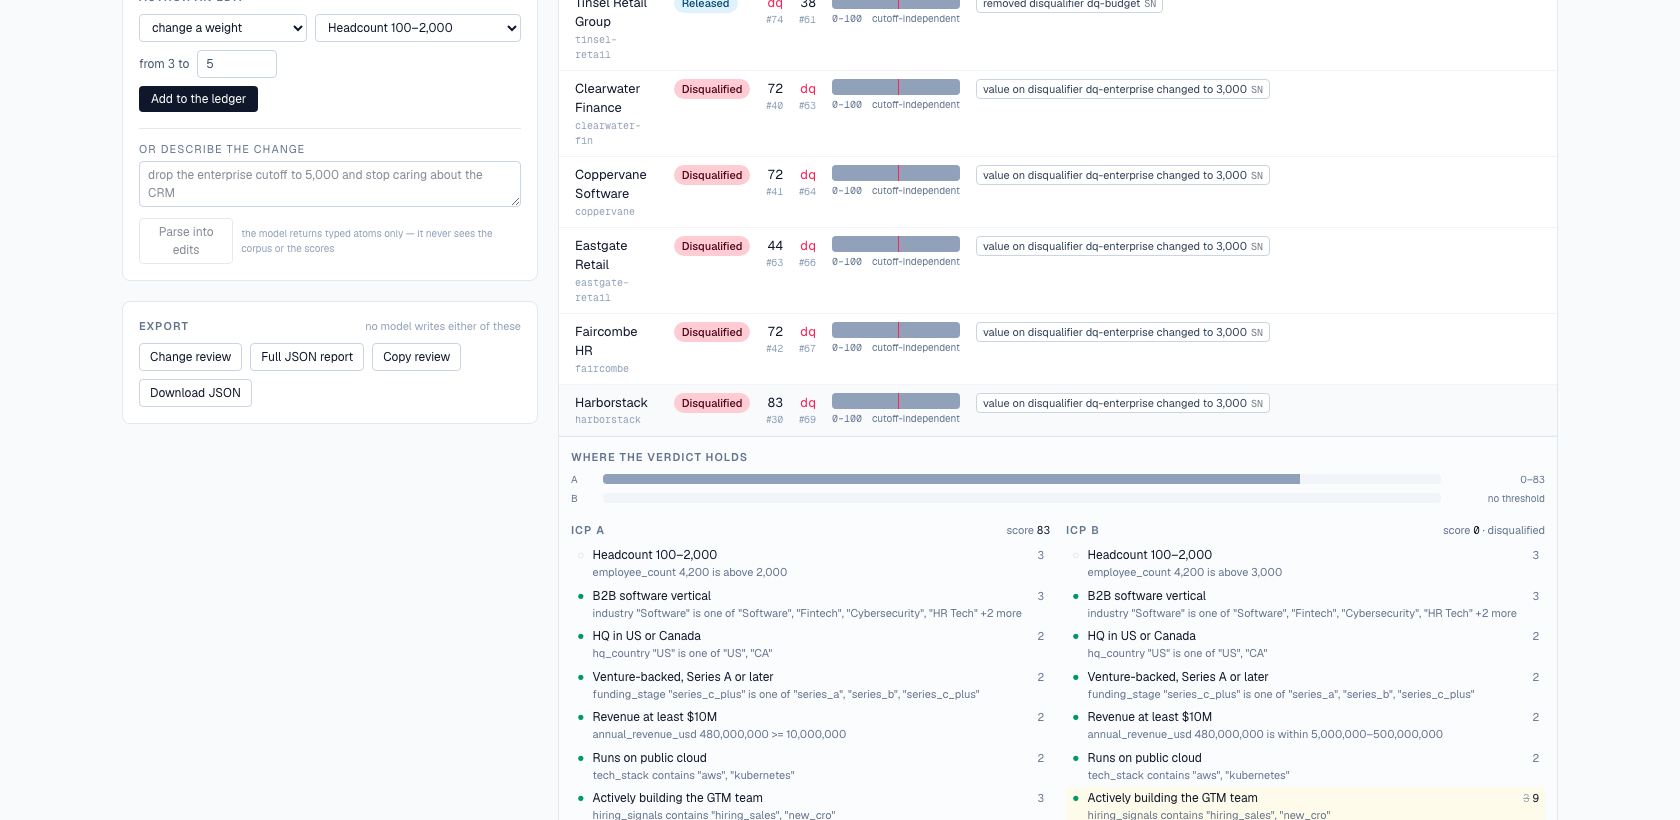
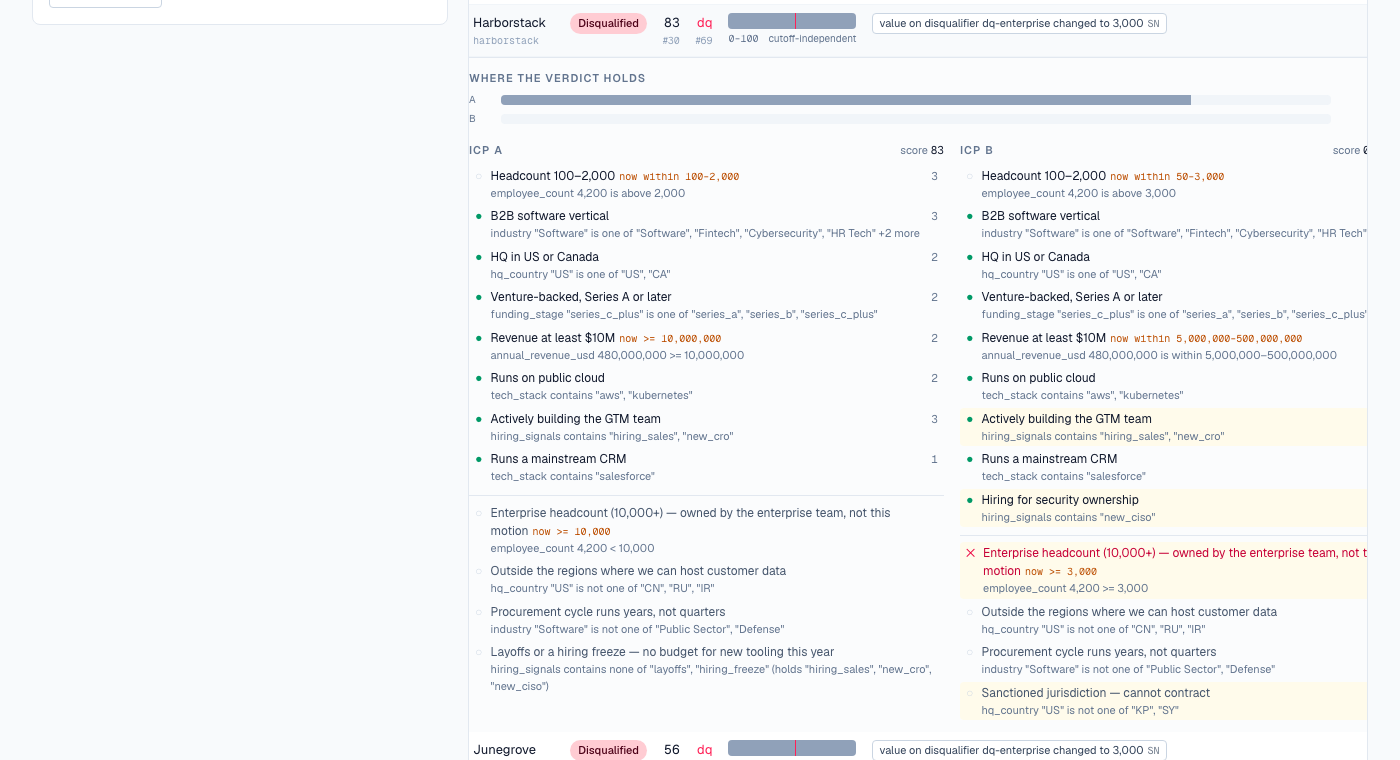
fix: label the old rule "was" rather than "now" on the ICP A column
Both columns printed "now <rule>", which on the A side is a claim about the
present about a rule that is no longer in force. A says "was", B says "now".

diff --git a/app/components/Breakdown.tsx b/app/components/Breakdown.tsx
@@ -64,6 +64,7 @@ export function Breakdown({
           other={null}
           otherDq={null}
           rules={rules.a}
+          rulePrefix="was"
         />
         <CriteriaColumn
           heading="ICP B"
@@ -74,6 +75,7 @@ export function Breakdown({
           other={byId}
           otherDq={dqById}
           rules={rules.b}
+          rulePrefix="now"
         />
       </div>
     </div>
@@ -89,6 +91,7 @@ function CriteriaColumn({
   other,
   otherDq,
   rules,
+  rulePrefix,
 }: {
   heading: string;
   score: number;
@@ -100,6 +103,8 @@ function CriteriaColumn({
   otherDq: Map<string, DisqualifierEvaluation> | null;
   /** Rule phrases for the ids whose rule differs between the two ICPs. */
   rules: Map<string, string>;
+  /** "was" on the ICP A column, "now" on ICP B. */
+  rulePrefix: "was" | "now";
 }) {
   return (
     <div>
@@ -143,7 +148,7 @@ function CriteriaColumn({
                 <span className="text-slate-900 dark:text-slate-100">{criterion.label}</span>
                 {rules.has(criterion.criterionId) ? (
                   <span className="ml-1 font-mono text-[10px] text-amber-700 dark:text-amber-300">
-                    now {rules.get(criterion.criterionId)}
+                    {rulePrefix} {rules.get(criterion.criterionId)}
                   </span>
                 ) : null}
                 <span className="block text-[11px] text-slate-500 dark:text-slate-400">
@@ -202,7 +207,7 @@ function CriteriaColumn({
                   </span>
                   {rules.has(disqualifier.disqualifierId) ? (
                     <span className="ml-1 font-mono text-[10px] text-amber-700 dark:text-amber-300">
-                      now {rules.get(disqualifier.disqualifierId)}
+                      {rulePrefix} {rules.get(disqualifier.disqualifierId)}
                     </span>
                   ) : null}
                   <span className="block text-[11px] text-slate-500 dark:text-slate-500">
